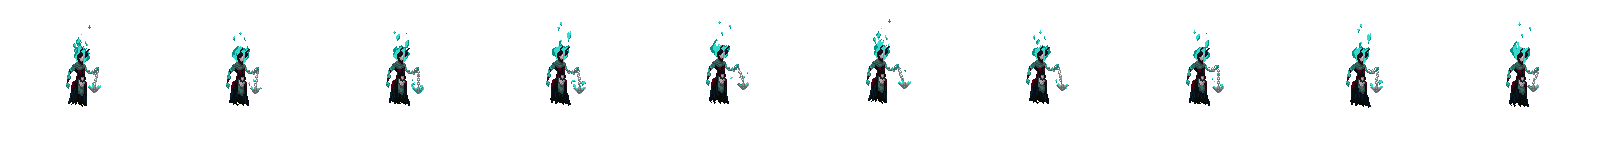
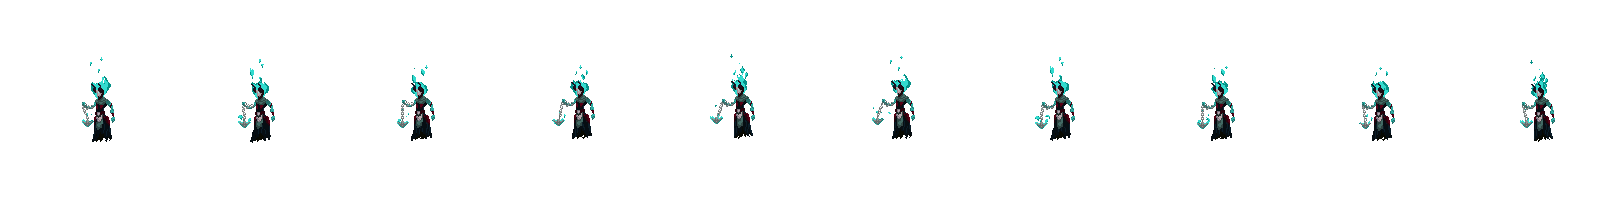
ghost moving and workign one way

diff --git a/index.js b/index.js
@@ -115,11 +115,11 @@ const enemy = new Fighter({
   },
   sprites: {
     idle: {
-      imageSrc: './img/ghost/Idle 3.png',
+      imageSrc: './img/ghost/Idle.png',
       framesMax: 10,
     },
     run: {
-      imageSrc: './img/kenji/Run.png',
+      imageSrc: './img/ghost/Move2.png',
       framesMax: 8,
     },
     jump: {
